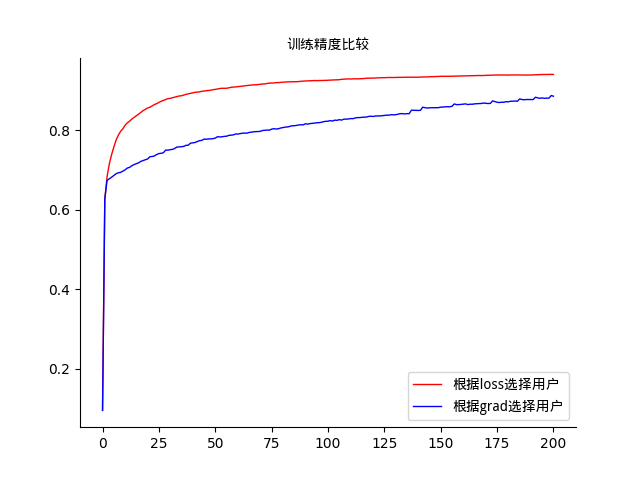
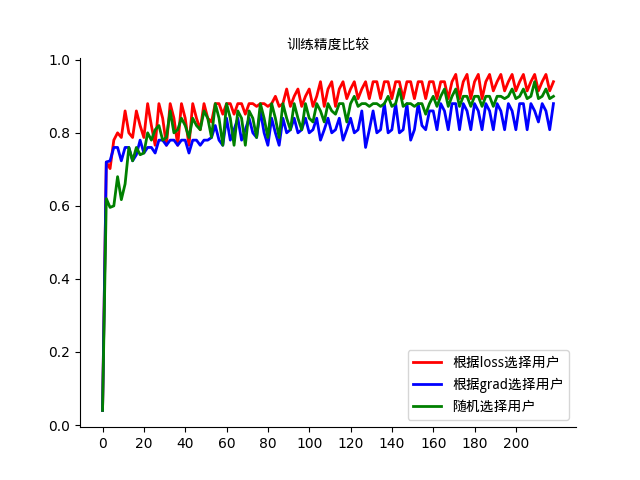
update

diff --git a/utils/json_draw.py b/utils/json_draw.py
@@ -8,9 +8,10 @@ import matplotlib.font_manager as fm
 json_list = sys.argv[1:]
 length = None #None
 show_all = True
-scale = 20
+scale = 50
 acc_loss = []
 acc_grad = []
+acc_random = []
 xticks = []
 with open(json_list[0], 'r') as f:
     metrics_dic = json.load(f)
@@ -29,22 +30,32 @@ with open(json_list[1], 'r') as f:
             acc_grad.extend([a / b for a, b in zip(acc[3], acc[2])])
         else:
             acc_grad.append(np.sum(acc[3]) * 1.0 / np.sum(acc[2]))
-
+with open(json_list[2], 'r') as f:
+    metrics_dic = json.load(f)
+    train_accuracies = metrics_dic['train_accuracies']
+    for i, acc in enumerate(train_accuracies):
+        # xticks.append(i)
+        if show_all:
+            acc_random.extend([a/b for a,b in zip(acc[3], acc[2])])
+        else:
+            acc_random.append(np.sum(acc[3]) * 1.0 / np.sum(acc[2]))
 
 sub_length = length if length is not None else len(acc_loss)
 acc_loss = acc_loss[:sub_length:scale]
 acc_grad = acc_grad[:sub_length:scale]
+acc_random = acc_random[:sub_length:scale]
 X = [ i for i in range(0,len(acc_grad))]
 
-ln1, = plt.plot(X,acc_loss,color='red',linewidth=0.3,linestyle='-')
-ln2, = plt.plot(X,acc_grad,color='blue',linewidth=0.3,linestyle='-')
+ln1, = plt.plot(X,acc_loss,color='red',linewidth=2,linestyle='-')
+ln2, = plt.plot(X,acc_grad,color='blue',linewidth=2,linestyle='-')
+ln3, = plt.plot(X,acc_random,color='green',linewidth=2,linestyle='-')
 xticks = xticks[::20]
 a = math.ceil(len(X)/len(xticks))
 plt.xticks(X[::a], xticks)
 
 my_font = fm.FontProperties(fname="../font/wqy-microhei.ttc")
 plt.title("训练精度比较",fontproperties=my_font) #设置标题及字体
-plt.legend(handles=[ln1, ln2], labels=['根据loss选择用户', '根据grad选择用户'], prop=my_font)
+plt.legend(handles=[ln1, ln2, ln3], labels=['根据loss选择用户', '根据grad选择用户', '随机选择用户'], prop=my_font)
 
 ax = plt.gca()
 ax.spines['right'].set_color('none')  #

diff --git a/FedProx/flearn/trainers/fedprox.py b/FedProx/flearn/trainers/fedprox.py
@@ -16,17 +16,18 @@ class Server(BaseFedarated):
     def train(self):
         '''Train using Federated Proximal'''
         print('Training with {} workers ---'.format(self.clients_per_round))
-
+        choice = 'ori_grad'
         for i in range(self.num_rounds):
             # test model
             if i % self.eval_every == 0:
                 stats = self.test() # have set the latest model for all clients
                 stats_train = self.train_error_and_loss()
-
+                self.metrics.accuracies.append(stats)
+                self.metrics.train_accuracies.append(stats_train)
                 tqdm.write('At round {} accuracy: {}'.format(i, np.sum(stats[3])*1.0/np.sum(stats[2])))  # testing accuracy
                 tqdm.write('At round {} training accuracy: {}'.format(i, np.sum(stats_train[3])*1.0/np.sum(stats_train[2])))
                 tqdm.write('At round {} training loss: {}'.format(i, np.dot(stats_train[4], stats_train[2])*1.0/np.sum(stats_train[2])))
-
+                self.metrics.write(choice)
             model_len = process_grad(self.latest_model).size
             global_grads = np.zeros(model_len)
             client_grads = np.zeros(model_len)
@@ -84,3 +85,4 @@ class Server(BaseFedarated):
         self.metrics.train_accuracies.append(stats_train)
         tqdm.write('At round {} accuracy: {}'.format(self.num_rounds, np.sum(stats[3])*1.0/np.sum(stats[2])))
         tqdm.write('At round {} training accuracy: {}'.format(self.num_rounds, np.sum(stats_train[3])*1.0/np.sum(stats_train[2])))
+        self.metrics.write(choice)

diff --git a/flearn/trainers/fedprox.py b/flearn/trainers/fedprox.py
@@ -22,7 +22,8 @@ class Server(BaseFedarated):
             if i % self.eval_every == 0:
                 stats = self.test() # have set the latest model for all clients
                 stats_train = self.train_error_and_loss()
-
+                # self.metrics.accuracies.append(stats)
+                # self.metrics.train_accuracies.append(stats_train)
                 tqdm.write('At round {} accuracy: {}'.format(i, np.sum(stats[3])*1.0/np.sum(stats[2])))  # testing accuracy
                 tqdm.write('At round {} training accuracy: {}'.format(i, np.sum(stats_train[3])*1.0/np.sum(stats_train[2])))
                 tqdm.write('At round {} training loss: {}'.format(i, np.dot(stats_train[4], stats_train[2])*1.0/np.sum(stats_train[2])))
